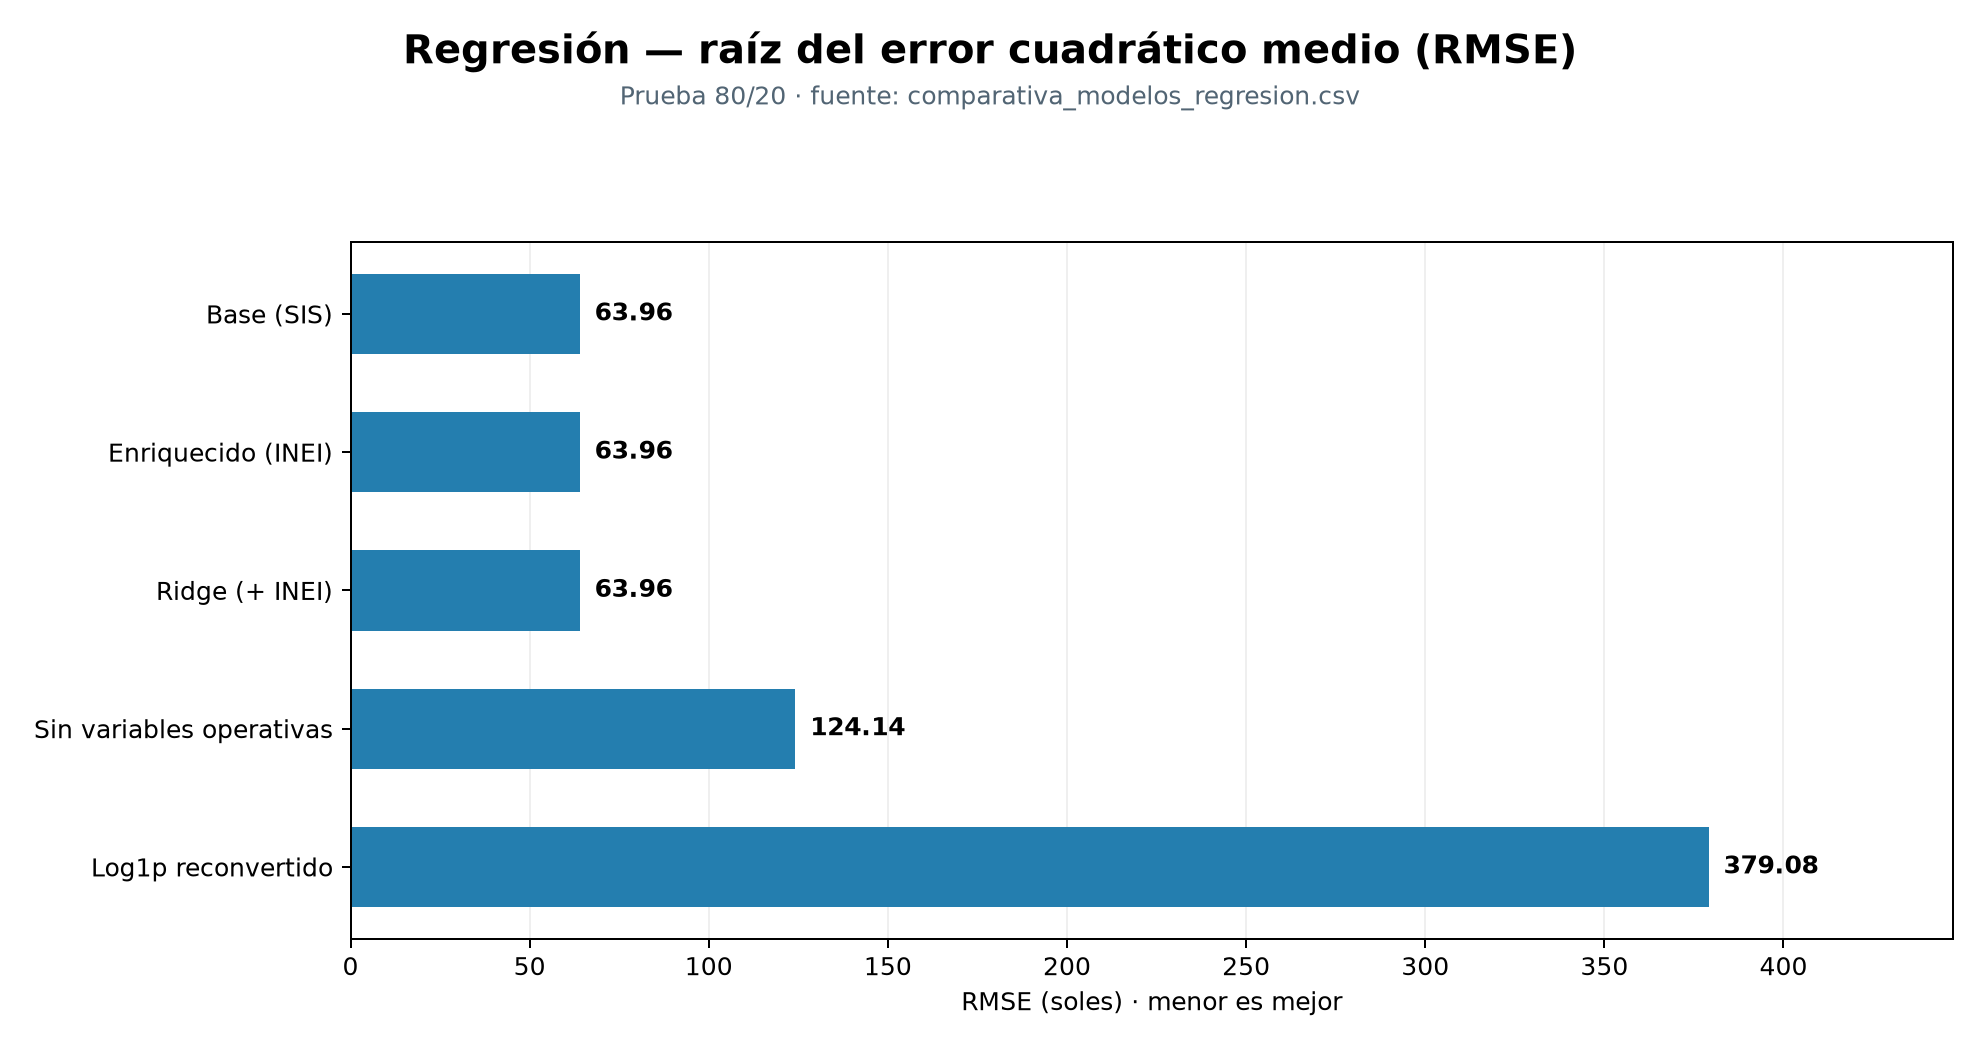
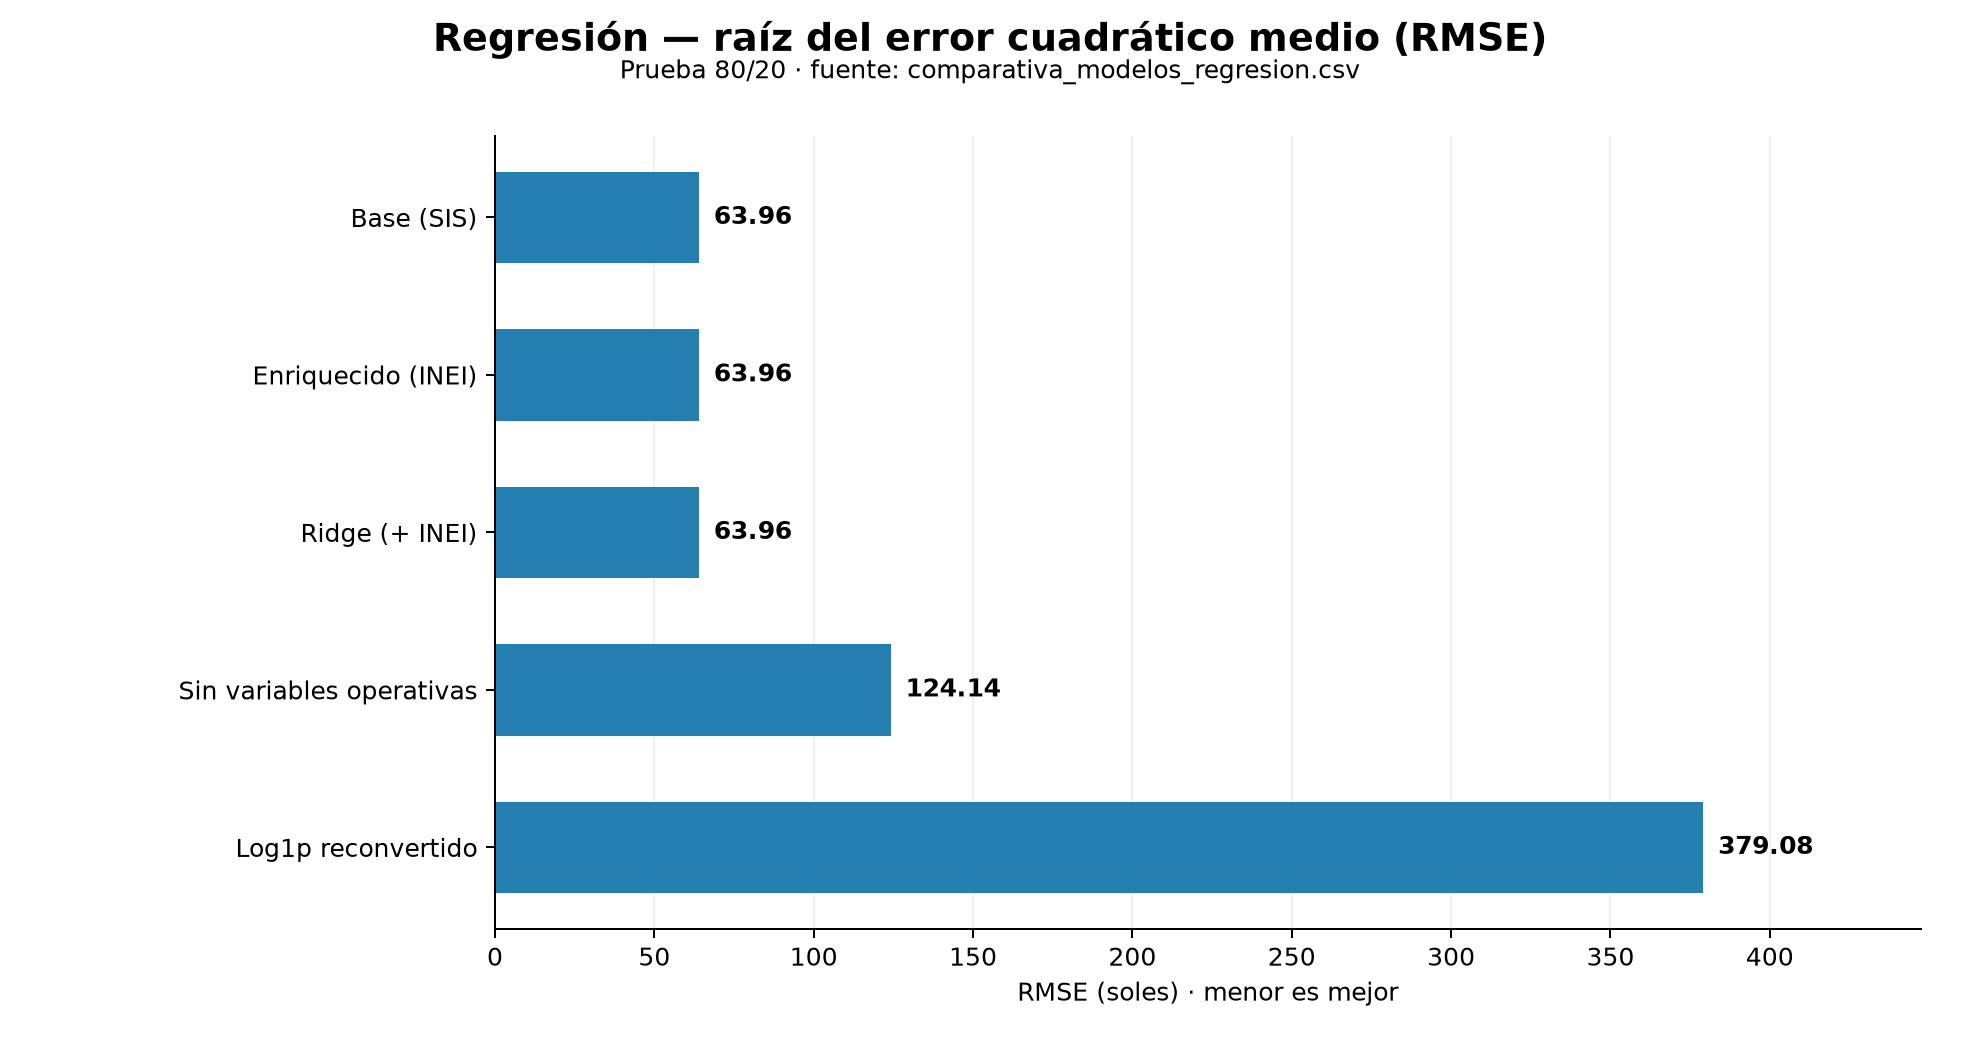
Ajusta presentacion compacta de RMSE y validacion cruzada

Changed region(s): [[0.0308, 0.1533, 0.5237, 0.7356], [0.0616, 0.7663, 0.9551, 0.9808], [0.1848, 0.0, 0.801, 0.1226]]

diff --git a/graficos_complementarios.py b/graficos_complementarios.py
@@ -20,6 +20,20 @@ def main():
     figuras = []
 
     def guardar(fig, ax, numero, titulo, subtitulo, descripcion):
+        if numero in [2, 4]:
+            # Versión compacta: conserva métricas y explicita las variables excluidas.
+            fig.suptitle(titulo, fontsize=15, weight='bold', y=.98)
+            fig.text(.5, .925, subtitulo, ha='center', fontsize=10)
+            fig.subplots_adjust(left=.25, right=.97, top=.87, bottom=.16 if numero == 4 else .11)
+            if numero == 4:
+                fig.text(.25, .025, 'Modelo log1p reconvertido: validación cruzada no reportada (N/A).', fontsize=10)
+            for lado in ['top', 'right']:
+                ax.spines[lado].set_visible(False)
+            nombre = f'complementario_{numero:02d}.png'
+            fig.savefig(SALIDAS / nombre, dpi=180, facecolor='white')
+            plt.close(fig)
+            figuras.append((numero, nombre, titulo, descripcion))
+            return
         fig.suptitle(titulo, fontsize=16, weight='bold', y=.97)
         fig.text(.5, .9, subtitulo, ha='center', fontsize=10, color='#526574')
         fig.tight_layout(rect=[0, 0, 1, .86])
@@ -58,7 +72,7 @@ def main():
     for i, (media, d) in enumerate(zip(medias, desv)):
         ax.text(media + .015, i, f'{media:.4f} ± {d:.4f}', va='center')
     guardar(fig, ax, 4, 'Regresión — estabilidad del R² en validación cruzada',
-            '5 pliegues · media ± desviación estándar · validación del modelo log1p no reportada',
+            '5 pliegues · media ± desviación estándar',
             'Base, enriquecido y Ridge muestran poca variación entre pliegues; las barras de error representan desviaciones estándar.')
 
     x = np.arange(1, len(reglas) + 1)
